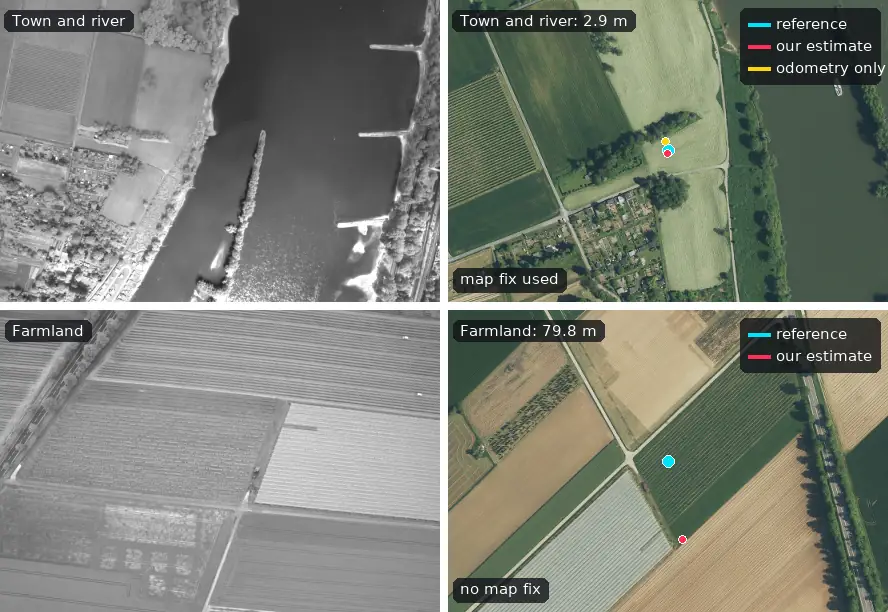
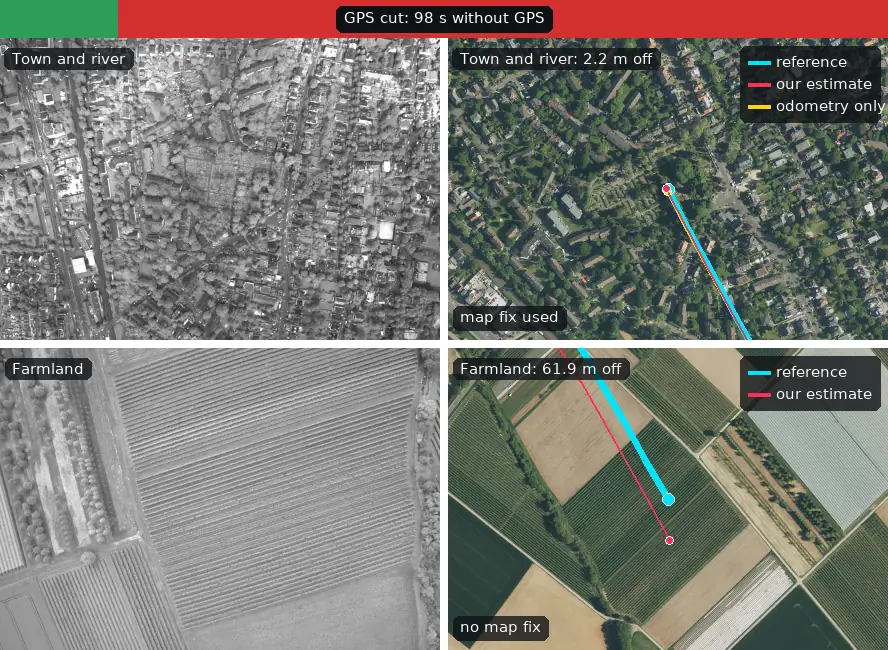
GPS cut-off video, new title and abstract, aligned layout

diff --git a/index.html b/index.html
@@ -171,12 +171,32 @@ footer p { margin: 0 0 8px; text-align: left; }
   .baseline-table th, .baseline-table td { padding-right: 8px; font-size: 0.875rem; }
   .baseline-table td.num, .baseline-table th.num { padding-right: 8px; }
 }
+.abstract { max-width: 920px; margin: 28px auto 0; padding: 22px 24px; background: var(--soft); border-radius: 10px; }
+.abstract h2 { font-size: 1.15rem; margin: 0 0 10px; color: var(--accent); }
+.abstract p { font-size: 1.0625rem; line-height: 1.65; margin: 0 0 12px; }
+.abstract p:last-child { margin-bottom: 0; }
+@media (max-width: 640px) { .abstract { padding: 16px 16px; } .abstract p { font-size: 1rem; } }
+/* One column: every block shares the same left and right edges. */
+.wrap { max-width: 1000px; }
+.hero-loop, .abstract, main > section, main > section.method, footer { max-width: 1000px; margin-inline: auto; }
+.method > figure > figcaption, .method > h2, .method > .method-status, .method > .steps, .method > .steps-title { max-width: none; margin-inline: 0; }
+.hero-loop img { max-width: 100%; }
+.hero-loop figcaption { max-width: none; }
+.abstract { margin-inline: auto; }
+.figure-open { display: inline-flex; }
+.steps-title { margin-top: 32px; }
+.steps { grid-template-columns: repeat(2, minmax(0, 1fr)); gap: 16px; margin-top: 12px; }
+.steps > div { padding: 18px 20px; border: 1px solid var(--line); border-radius: 10px; background: var(--bg); }
+.steps h3 { margin: 0 0 6px; font-size: 1rem; }
+.steps p { color: var(--ink); text-align: justify; hyphens: auto; }
+.pro, .con { text-align: justify; hyphens: auto; }
+@media (max-width: 640px) { .steps { grid-template-columns: 1fr; } .hero-loop img { max-width: 440px; } }
 </style>
 
-<div class="wrap">
+<div lang="en" class="wrap">
 <header class="hero">
   <h1>GeoTrack</h1>
-  <p class="subtitle">Learning When to Trust a Map Fix During GPS&#8209;Denied UAV Flight</p>
+  <p class="subtitle">Lost, Not Fooled: Learning What to Trust When a Drone Loses GPS</p>
   <p class="author"><a href="https://promit7473.github.io/">Meraj Hossain Promit</a></p>
   <p class="affil">University of Dhaka, Bangladesh</p>
   <div class="buttons">
@@ -190,21 +210,25 @@ footer p { margin: 0 0 8px; text-align: left; }
 <figure class="hero-loop">
   <picture>
     <source media="(prefers-reduced-motion: reduce)" srcset="figures/hero_loop_poster.webp">
-    <source media="(max-width: 640px)" srcset="figures/hero_loop_phone.webp" width="440" height="612">
-    <img src="figures/hero_loop.webp" width="888" height="612" alt="Aerial tracking comparison. Top: town and river with accepted map fixes. Bottom: farmland without accepted map fixes, where the estimate drifts from the reference. Camera frames are included on wider screens.">
+    <source media="(max-width: 640px)" srcset="figures/hero_loop_phone.webp" width="440" height="650">
+    <img src="figures/hero_loop.webp" width="888" height="650" alt="GPS cut-off demo in two rows. After GPS is cut, the estimate stays on the reference path over town and river, while over farmland no map fix is accepted and the estimate drifts away. Camera frames are included on wider screens.">
   </picture>
-  <img class="hero-still" src="figures/hero_loop_poster.webp" width="888" height="612" alt="Still of the town and farmland tracking comparison.">
+  <img class="hero-still" src="figures/hero_loop_poster.webp" width="888" height="650" alt="Last frame of the GPS cut-off demo, about 100 seconds after the cut.">
   <label class="motion-control"><input class="motion-toggle" type="checkbox"> Show still image</label>
   <figcaption>
-    <p>One flight at three times flight speed. Top: accepted map fixes keep the error low. Bottom: after 150 seconds without an accepted map fix, the estimate drifts.</p>
-    <p><strong>Not GPS-denied performance:</strong> both rows use GPS-aided attitude and start from the true position.</p>
+    <p>What happens when GPS is cut, on one real flight, sped up about ten times. The bar shows GPS on, then the time since the cut. Top: map fixes keep the estimate on the reference path. Bottom: over farmland the current matcher accepts no fix, and the estimate drifts.</p>
+    <p><strong>Not yet full GPS-denied performance:</strong> the cut is simulated by withholding GPS position from the filter, and attitude still comes from a GPS-aided INS.</p>
     <details>
       <summary>Legend and data sources</summary>
       <p>Blue: reference path from the GPS-aided INS. Red: our baseline filter. Yellow: odometry alone. Camera frames appear on wider screens. Frames: Leaving the City dataset, CC BY 4.0. Map: NRW DOP10 orthophotos.</p>
     </details>
   </figcaption>
 </figure>
-<p class="tldr"><b>TL;DR</b> A drone that loses GPS can keep locating itself by matching its video to a map, but a match can be confidently wrong. GeoTrack asks whether a learned memory of recent frames can tell a good fix from a bad one, and tests that against the simple rules used today.</p>
+<section class="abstract" aria-label="Abstract">
+  <h2>Abstract</h2>
+  <p>GPS signals are faint, and a cheap jammer can drown them out. When that happens mid-flight, a drone is left with only what it sees and what it remembers. Matching its camera to a map can recover its position to within metres, yet every fix carries the same quiet risk: it can be wrong and still look right. Today's trackers judge each fix almost on its own, with rules written by hand. GeoTrack starts from a different idea: a fix should be judged the way a navigator judges a landmark, against the whole journey so far. A recurrent memory follows how match quality, motion and the predicted position evolve, then decides how far each new fix may move the belief, while geometry alone supplies the position. The aim is a drone that knows the difference between being certain, being unsure and being lost, and says so.</p>
+  <p>First tests on one real flight show why this matters. With attitude still taken from a GPS-aided INS, map fixes hold the estimate to about 1.5 m over town, while over farmland our current matcher accepts none and the estimate drifts about 90 m in 200 seconds. Whether memory beats simple rules is the open question this project sets out to test.</p>
+</section>
 
 <main>
 <section>
@@ -238,6 +262,7 @@ footer p { margin: 0 0 8px; text-align: left; }
     <a class="figure-open" href="figures/fig_method.webp">Open the method diagram at full size</a>
     <figcaption>A frozen matcher gives a map fix for each frame. A recurrent network, shown as a GRU with an LSTM to be compared, carries a memory across frames and sets how much the belief update trusts each fix. It never predicts position, because geometry supplies that. The frames, map, matches and SuperPoint feature maps are real outputs from the running pipeline. The heatmaps follow the update formula for an imagined frame whose strongest match is wrong.</figcaption>
   </figure>
+  <h3 class="steps-title">Design principles</h3>
   <div class="steps">
     <div><h3>Known start</h3><p>GPS works until a cutoff, which gives the start state. After that, only a local map crop around the prediction is searched.</p></div>
     <div><h3>Same matcher for every method</h3><p>The matcher is frozen and fixes are logged, so any gain comes from trust and not from better matching.</p></div>
@@ -252,8 +277,8 @@ footer p { margin: 0 0 8px; text-align: left; }
   <div class="tablewrap"><table class="stack">
     <thead><tr><th scope="col">Dataset</th><th scope="col">Role</th><th scope="col">Platform</th><th scope="col">Height above ground</th></tr></thead>
     <tbody>
-      <tr><td class="name">Leaving the City (ECCV 2026)</td><td data-label="Role">Development and main evaluation</td><td data-label="Platform">Microlight</td><td data-label="Height">About 270&#8211;680 m on the segments tested so far</td></tr>
-      <tr><td class="name">MARS-LVIG (IJRR 2024)</td><td data-label="Role">Drone validation, including ordinary GPS comparison</td><td data-label="Platform">DJI M300</td><td data-label="Height">80&#8211;130 m</td></tr>
+      <tr><td class="name">Leaving the City (ECCV 2026)</td><td data-label="Role">Development and main evaluation</td><td data-label="Platform">Microlight</td><td data-label="Height">About 270 to 680 m on the segments tested so far</td></tr>
+      <tr><td class="name">MARS-LVIG (IJRR 2024)</td><td data-label="Role">Drone validation, including ordinary GPS comparison</td><td data-label="Platform">DJI M300</td><td data-label="Height">80 to 130 m</td></tr>
     </tbody>
   </table></div>
 </section>
@@ -271,7 +296,7 @@ footer p { margin: 0 0 8px; text-align: left; }
   <h3>Experiment status</h3>
   <div class="tablewrap"><table class="stack progress-table">
     <thead><tr><th scope="col">ID</th><th scope="col">Experiment</th><th scope="col">Status</th><th scope="col">Result so far</th></tr></thead>
-    <tbody><tr><td class="id">E00</td><td class="name">Geometry and data checks</td><td class="state"><span class="pill done">Done</span></td><td class="res">Image footprints within a median of 6 m of the published ones, first segment</td></tr><tr><td class="id">E01</td><td class="name">Baseline pipeline</td><td class="state"><span class="pill done">Done</span></td><td class="res">Working baseline on one 9 km segment; first measured errors below</td></tr><tr><td class="id">E02</td><td class="name">Matcher comparison</td><td class="state"><span class="pill running">In progress</span></td><td class="res">Probe at the true position with an 800 m crop, 40 farmland frames: LoFTR 21 correct fixes and SuperPoint + LightGlue 2 with the 2021 map; 7 and 2 with the 2019 map. Neither gave a wrong fix. Not yet tested in the filter.</td></tr><tr><td class="id">E03</td><td class="name">How often real false fixes happen</td><td class="state"><span class="pill running">In progress</span></td><td class="res">Three 200-second segments. Accepted fixes with the 2021 map: 96% town, 37% mixed, 0% farmland. With the 2019 map: 67%, 16%, 0%. No accepted false fix so far, so missing fixes are the main failure seen, not confident wrong ones. Forest not yet tested.</td></tr><tr><td class="id">E04</td><td class="name">Does history predict fix correctness?</td><td class="state"><span class="pill planned">Planned</span></td><td class="res"></td></tr><tr><td class="id">E05</td><td class="name">Closed-loop tracking against baselines</td><td class="state"><span class="pill planned">Planned</span></td><td class="res"></td></tr><tr><td class="id">E06</td><td class="name">Uncertainty calibration on long sequences</td><td class="state"><span class="pill planned">Planned</span></td><td class="res"></td></tr><tr><td class="id">E07</td><td class="name">Attitude without GPS aiding</td><td class="state"><span class="pill planned">Planned</span></td><td class="res"></td></tr><tr><td class="id">E08</td><td class="name">Outages and recovery</td><td class="state"><span class="pill planned">Planned</span></td><td class="res"></td></tr><tr><td class="id">E09</td><td class="name">New routes, seasons, drones and satellite maps</td><td class="state"><span class="pill planned">Planned</span></td><td class="res"></td></tr></tbody>
+    <tbody><tr><td class="id">E00</td><td class="name">Geometry and data checks</td><td class="state"><span class="pill done">Done</span></td><td class="res">Image footprints within a median of 6 m of the published ones, first segment</td></tr><tr><td class="id">E01</td><td class="name">Baseline pipeline</td><td class="state"><span class="pill done">Done</span></td><td class="res">Working baseline on one 9 km segment; first measured errors below</td></tr><tr><td class="id">E02</td><td class="name">Matcher comparison</td><td class="state"><span class="pill running">In progress</span></td><td class="res">Probe at the true position with an 800 m crop, 40 farmland frames: LoFTR 21 correct fixes and SuperPoint + LightGlue 2 with the 2021 map; 7 and 2 with the 2019 map. Neither gave a wrong fix. Not yet tested in the filter.</td></tr><tr><td class="id">E03</td><td class="name">How often real false fixes happen</td><td class="state"><span class="pill running">In progress</span></td><td class="res">Three 200-second segments. Accepted fixes with the 2021 map: 96% town, 37% mixed, 0% farmland. With the 2019 map: 67%, 16%, 0%. No accepted false fix so far, so missing fixes are the main failure seen, not confident wrong ones. Forest not yet tested.</td></tr><tr><td class="id">E04</td><td class="name">Does history predict fix correctness?</td><td class="state"><span class="pill planned">Planned</span></td><td class="res"></td></tr><tr><td class="id">E05</td><td class="name">Closed-loop tracking against baselines</td><td class="state"><span class="pill running">In progress</span></td><td class="res">First GPS cut-off runs without a learned model. Town, SuperPoint + LightGlue: 1.41 m median and 6.0 m maximum over 190 seconds, against 4.4 m median for odometry alone. Farmland: no fixes, 90 m off after 200 seconds. LoFTR runs are in progress.</td></tr><tr><td class="id">E06</td><td class="name">Uncertainty calibration on long sequences</td><td class="state"><span class="pill planned">Planned</span></td><td class="res"></td></tr><tr><td class="id">E07</td><td class="name">Attitude without GPS aiding</td><td class="state"><span class="pill planned">Planned</span></td><td class="res"></td></tr><tr><td class="id">E08</td><td class="name">Outages and recovery</td><td class="state"><span class="pill planned">Planned</span></td><td class="res"></td></tr><tr><td class="id">E09</td><td class="name">New routes, seasons, drones and satellite maps</td><td class="state"><span class="pill planned">Planned</span></td><td class="res"></td></tr></tbody>
   </table></div>
 </section>
 </main>
